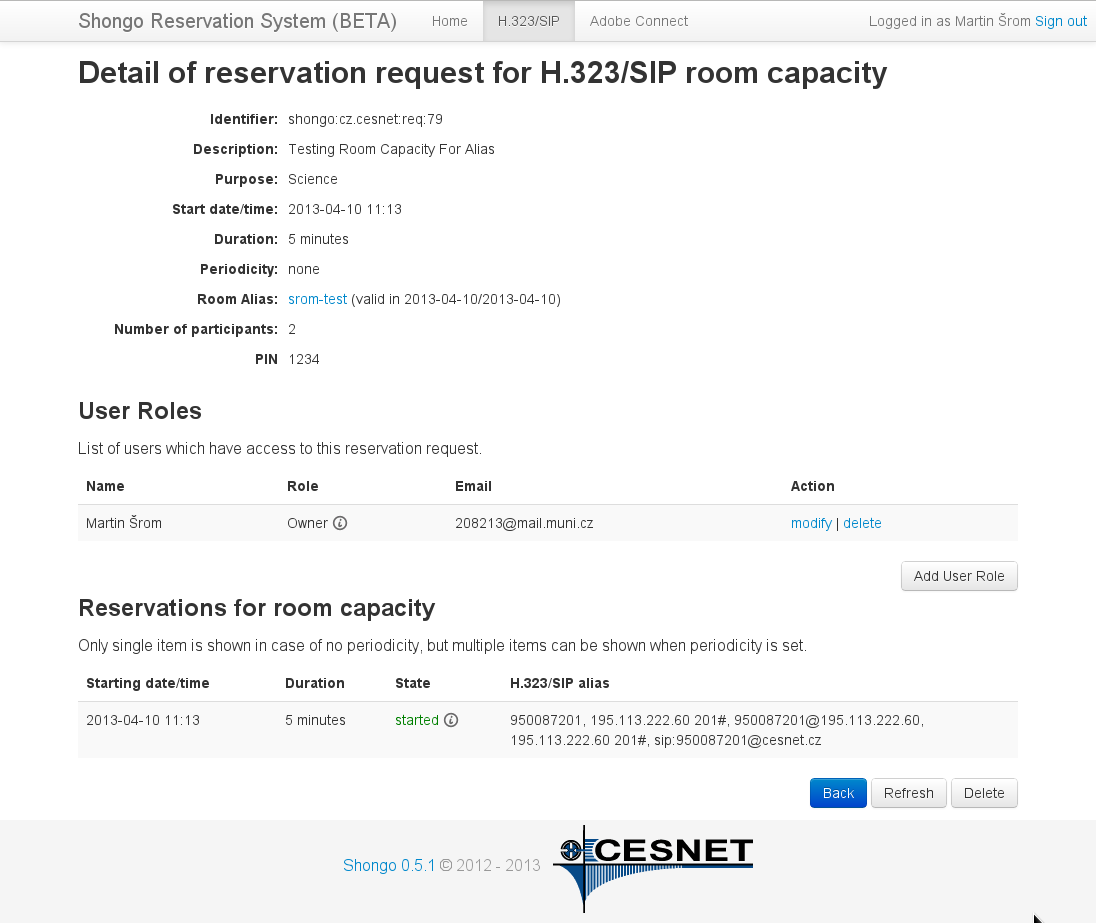
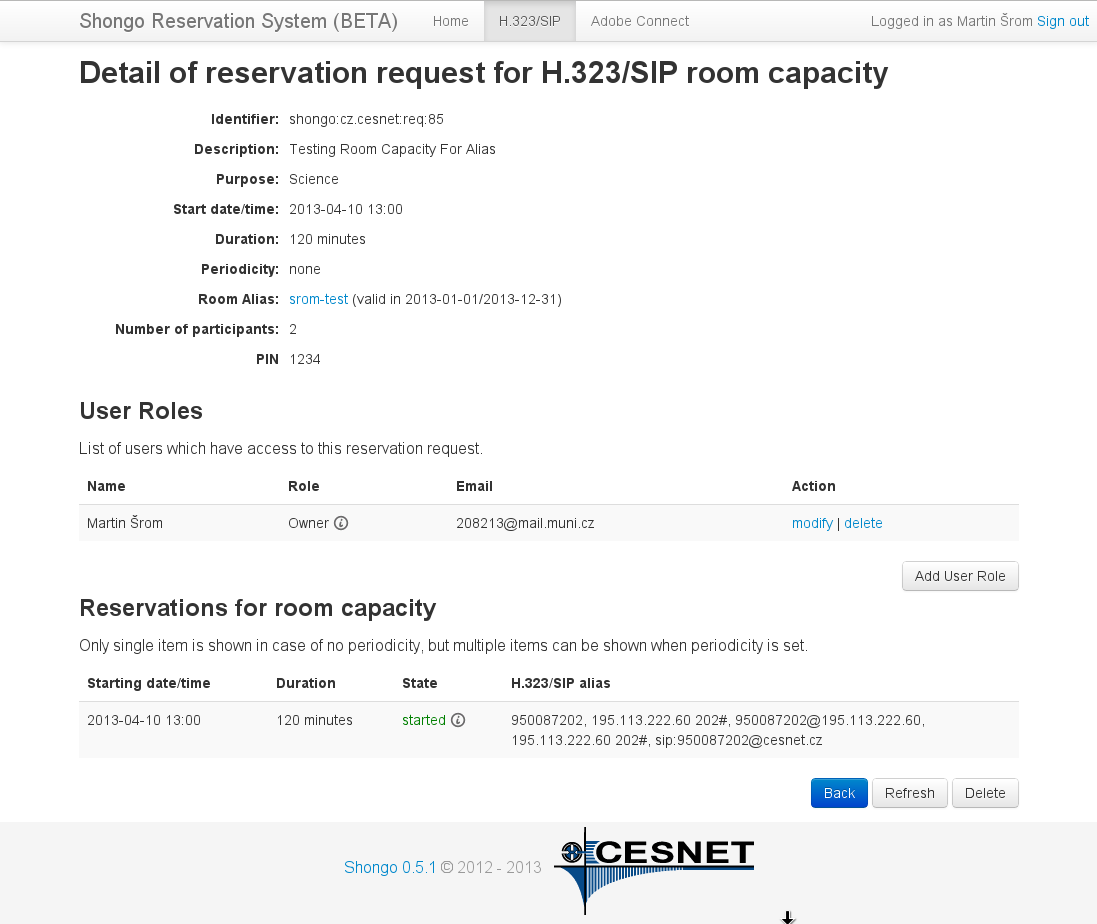
Finished first version of Shongo architecture document.

diff --git a/doc/shongo/architecture/architecture.tex b/doc/shongo/architecture/architecture.tex
@@ -55,7 +55,7 @@ Shongo is a reservation system designed for booking videoconferencing resources.
 
 \begin{enumerate}
 
-\item \textbf{Controller} is the main backend application for a single domain written in Java which holds a relational database of resources, reservation requests and all other entities. Controller provides an XML-RPC API which is used by clients to manage the relational database and to control managed devices for the domain.
+\item \textbf{Controller} is the main backend application for a single domain written in Java which holds a relational database of resources, reservation requests and all other entities. Controller provides an XML-RPC API which is used by clients to manage the relational database and to control managed devices for the domain. Controller schedules reservations, informs users about theirs reservations by email and executes meetings in devices via connectors.
 
 \item \textbf{Web/Cmd-line Client} is an application written in Perl which allows the users/administrators to access the controller (e.g., to create/modify/delete the resources and reservation requests and to control managed devices).
 
@@ -163,7 +163,7 @@ Examples of resources which can be stored insided the relational database:
 
 \begin{itemize}
 
-\item Hardware endpoint Tandberg Codec C90 which is accessible by H.323 number 950087200 and sip:950087200@cesnet.cz.
+\item Hardware endpoint Tandberg Codec C90 which is accessible by H.323 number 950087300 and sip:950087300@cesnet.cz.
 \begin{Entity}
 DeviceResource {
   name: "Tandberg Codec C90",
@@ -334,12 +334,12 @@ ReservationRequestSet {
 
 \chapter{Web Client}
 
-Web client currently allows the users to create 3 types of reservation requests:
+This chapter describes currently implemented web client. It allows the users to create 3 types of reservation requests:
 
 \begin{enumerate}
 \item Reservation request for (\textit{adhoc}) room in H.323/SIP MCU or meeting in Adobe Connect server for specific time slot and number of participants. 
 \paragraph{Example}
-\textit{An user wants to arrange a meeting for 5 participants from 12:00 to 14:00 on 2013-04-10 and thus he creates a new request for H.323/SIP room, he gets allocated a room reservation and the room will be started exactly at 12:00 and stopped at 14:00.}
+\textit{An user wants to arrange a meeting for $N$ participants from 13:00 to 15:00 on 2013-04-10 and thus he creates a new request for H.323/SIP room, he gets allocated a room reservation and the room will be started exactly at 13:00 and stopped at 15:00.}
 
 \begin{figure}[ht!]
 \centering\includegraphics[width=0.7\textwidth]{images/client_web_detail_room.png}
@@ -356,7 +356,7 @@ When alias for Adobe Connect is allocated a meeting is going to be created in th
 By the alias reservation request the user gets a room/meeting which is created on target device for the whole requested time slot, but participants cannot join/access the room/meeting, because it is setup to consume 0 licenses in the device. To be able to join the room the user must first allocate a room capacity for the alias.
 
 \paragraph{Example}
-\textit{An user wants to have a H.323/SIP virtual room for his meetings with same name and H.323 number each time he arranges a meeting. He creates a new request for H.323/SIP alias with validity from 2013-01-01 to 2014-01-01 (in future he will be able to extend the validity). He gets allocated an alias reservation for which a room will created, but no participant will be able to join the room unless the user creates a reservation request for room capacity.}
+\textit{An user wants to have a H.323/SIP virtual room for his meetings with same name and H.323 number each time he arranges a meeting. He creates a new request for H.323/SIP alias with validity from 2013-01-01 to 2013-12-31 (in future he will be able to extend the validity). He gets allocated an alias reservation for which a room will created, but no participant will be able to join the room unless the user creates a reservation request for room capacity.}
 
 \begin{figure}[ht!]
 \centering\includegraphics[width=0.6\textwidth]{images/client_web_detail_alias.png}
@@ -367,10 +367,10 @@ By the alias reservation request the user gets a room/meeting which is created o
 \item Reservation request for room capacity for already allocated alias reservation request.
 
 \paragraph{Example}
-\textit{tests}
+\textit{An user wants to arrange a meeting for $N$ participants from 13:00 to 15:00 on 2013-04-10 and he already has an allocated alias reservation. He creates a new request for room capacity for the alias and the room allocated by the alias will be updated according to the room capacity request from 13:00 to 15:00 ($N$ participants will be able to join the room for the time slot).}
 
 \begin{figure}[ht!]
-\centering\includegraphics[width=0.7\textwidth]{images/client_web_detail_alias_room.png}
+\centering\includegraphics[width=0.6\textwidth]{images/client_web_detail_alias_room.png}
 \caption{Detail of reservation request for H.323/SIP room capacity for \textit{srom-test} alias}
 \label{fig:client-web-detail-alias-room}
 \end{figure}
@@ -378,13 +378,20 @@ By the alias reservation request the user gets a room/meeting which is created o
 \end{enumerate}
 
 \begin{figure}[ht!]
-\centering\includegraphics[width=0.7\textwidth]{images/client_web_create_alias.png}
+\centering\includegraphics[width=0.6\textwidth]{images/client_web_create_alias.png}
 \caption{Creating H.323/SIP alias reservation request}
-\label{fig:client-web-create_alias}
+\label{fig:client-web-create-alias}
 \end{figure}
 
 \begin{figure}[ht!]
-\centering\includegraphics[width=0.7\textwidth]{images/client_web_list.png}
+\centering\includegraphics[width=0.6\textwidth]{images/client_web_create_room.png}
+\caption{Creating H.323/SIP room reservation request}
+\label{fig:client-web-create-room}
+\end{figure}
+
+
+\begin{figure}[ht!]
+\centering\includegraphics[width=0.6\textwidth]{images/client_web_list.png}
 \caption{Main page of H.323/SIP reservation requests}
 \label{fig:client-web-list}
 \end{figure}
